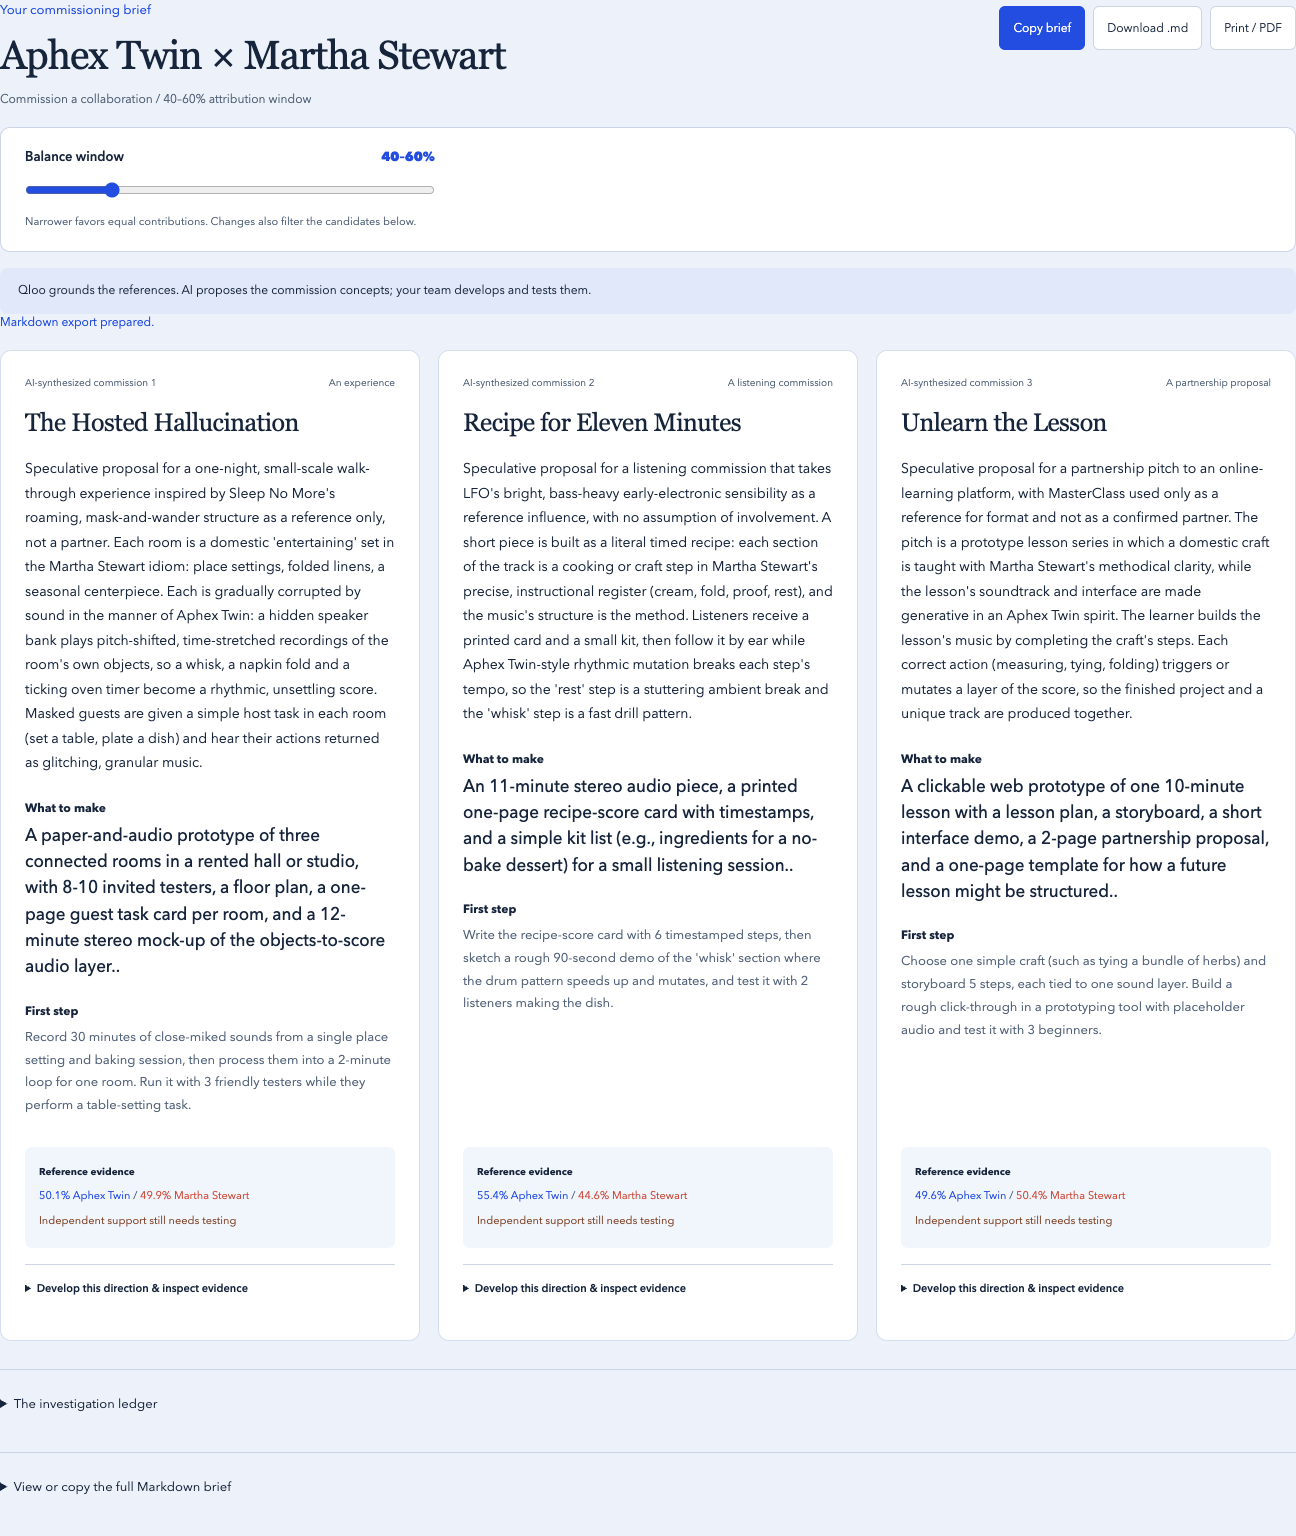
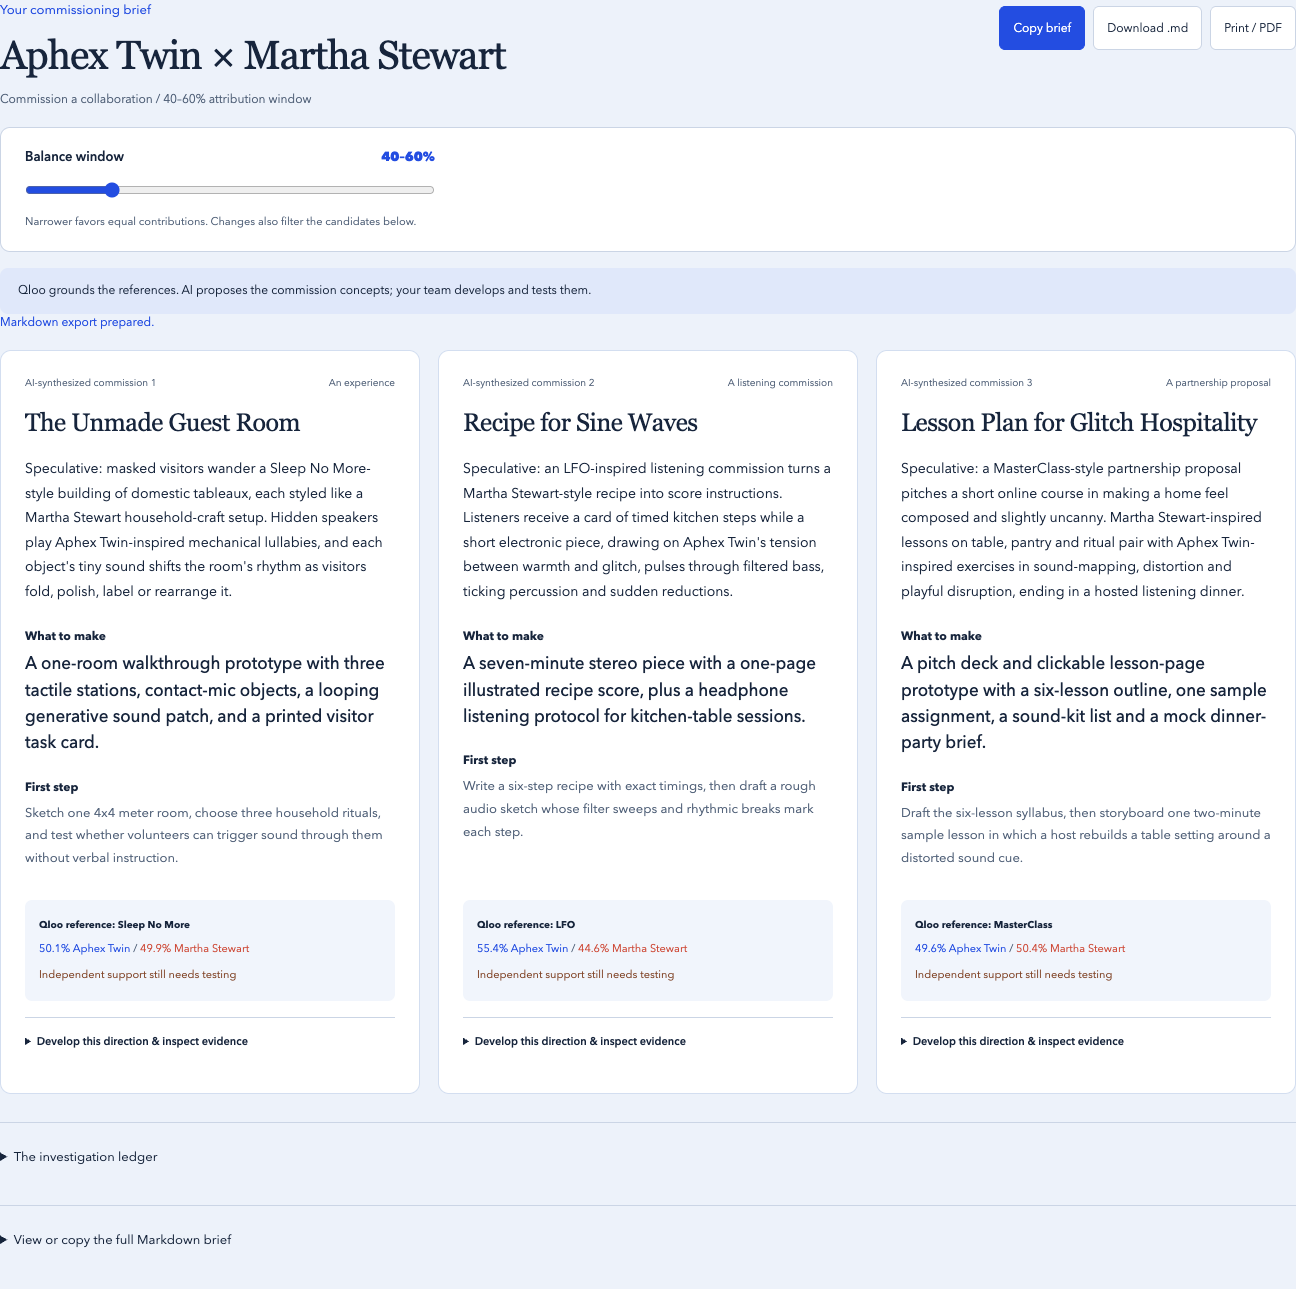
Resolve Gateway OIDC from request context and verify production synthesis

diff --git a/docs/dialectic-demo-brief.md b/docs/dialectic-demo-brief.md
@@ -7,7 +7,7 @@ An evidence-led commissioning draft. Proposed directions require human developme
 
 Concept synthesis: AI-generated via anthropic/claude-sonnet-5.5. Qloo grounds the references; AI proposes the creative concepts.
 
-## 1. The Hosted Hallucination
+## 1. The Unmade Guest Room
 
 ### Qloo observation
 Reference: Sleep No More (place; 0D482FC5-C668-4D49-81FB-B341B0A64684).
@@ -17,17 +17,17 @@ Evidence: 675866e173d12eb7c28f349b81d0c2e720a0a1afcb5823db7af9750fab0abfdb.
 
 ### Proposed direction
 Source: AI-synthesized commission concept.
-Speculative proposal for a one-night, small-scale walk-through experience inspired by Sleep No More's roaming, mask-and-wander structure as a reference only, not a partner. Each room is a domestic 'entertaining' set in the Martha Stewart idiom: place settings, folded linens, a seasonal centerpiece. Each is gradually corrupted by sound in the manner of Aphex Twin: a hidden speaker bank plays pitch-shifted, time-stretched recordings of the room's own objects, so a whisk, a napkin fold and a ticking oven timer become a rhythmic, unsettling score. Masked guests are given a simple host task in each room (set a table, plate a dish) and hear their actions returned as glitching, granular music.
+Speculative: masked visitors wander a Sleep No More-style building of domestic tableaux, each styled like a Martha Stewart household-craft setup. Hidden speakers play Aphex Twin-inspired mechanical lullabies, and each object's tiny sound shifts the room's rhythm as visitors fold, polish, label or rearrange it.
 
-Deliverable: A paper-and-audio prototype of three connected rooms in a rented hall or studio, with 8-10 invited testers, a floor plan, a one-page guest task card per room, and a 12-minute stereo mock-up of the objects-to-score audio layer..
-Next step: Record 30 minutes of close-miked sounds from a single place setting and baking session, then process them into a 2-minute loop for one room. Run it with 3 friendly testers while they perform a table-setting task.
-Rejection criterion: In testing, fewer than 6 of 8 testers can complete a room's domestic task and then identify, afterward, at least one of their own actions in the score, or testers describe the rooms as generic spooky theater rather than a domestic setting being altered by sound.
-- Aphex Twin seed: every sound in the score must be derived from recordings of the room's own domestic objects and processed (stretched, granulated, detuned). No external synth pads or stock samples.
-- Martha Stewart seed: every room must contain a fully executable, instruction-card-style domestic task (fold, plate, arrange) with a clear correct result, and the guest's finished work must remain visible after the sound distorts.
+Deliverable: A one-room walkthrough prototype with three tactile stations, contact-mic objects, a looping generative sound patch, and a printed visitor task card.
+Next step: Sketch one 4x4 meter room, choose three household rituals, and test whether volunteers can trigger sound through them without verbal instruction.
+Rejection criterion: In testing, participants cannot connect their physical actions to sound changes, or they treat the room as decor rather than a performance mechanism.
+- Aphex Twin seed: every sound must be built from warped domestic noise, such as clinking, folding or ticking, and later rhythmically destabilized.
+- Martha Stewart seed: every station needs a precise, teachable craft procedure with visible tools, measurements and a polished finished object.
 
 AI-generated creative interpretation. Qloo supports reference selection; it does not validate this concept, demand, participation or rights.
 
-## 2. Recipe for Eleven Minutes
+## 2. Recipe for Sine Waves
 
 ### Qloo observation
 Reference: LFO (artist; 9FDB8A60-ABAA-497F-BF66-8A0138184170).
@@ -37,17 +37,17 @@ Evidence: e559e4a5487d61c145b7dc3a6e209e6e2730ae8577aa6adad94a40e7bff0c554.
 
 ### Proposed direction
 Source: AI-synthesized commission concept.
-Speculative proposal for a listening commission that takes LFO's bright, bass-heavy early-electronic sensibility as a reference influence, with no assumption of involvement. A short piece is built as a literal timed recipe: each section of the track is a cooking or craft step in Martha Stewart's precise, instructional register (cream, fold, proof, rest), and the music's structure is the method. Listeners receive a printed card and a small kit, then follow it by ear while Aphex Twin-style rhythmic mutation breaks each step's tempo, so the 'rest' step is a stuttering ambient break and the 'whisk' step is a fast drill pattern.
+Speculative: an LFO-inspired listening commission turns a Martha Stewart-style recipe into score instructions. Listeners receive a card of timed kitchen steps while a short electronic piece, drawing on Aphex Twin's tension between warmth and glitch, pulses through filtered bass, ticking percussion and sudden reductions.
 
-Deliverable: An 11-minute stereo audio piece, a printed one-page recipe-score card with timestamps, and a simple kit list (e.g., ingredients for a no-bake dessert) for a small listening session..
-Next step: Write the recipe-score card with 6 timestamped steps, then sketch a rough 90-second demo of the 'whisk' section where the drum pattern speeds up and mutates, and test it with 2 listeners making the dish.
-Rejection criterion: Testers following the card with the audio cannot finish the dish within 11 minutes plus 4 minutes, or in a blind listen the audio without the card is described as just an electronic track with no sense of stepwise instruction.
-- Aphex Twin seed: the rhythm of each step must mutate at least twice within its section (shifting time signature, subdividing, or stuttering) while maintaining a recognizable pulse that returns at the section's end.
-- Martha Stewart seed: the card must be a usable, tested recipe in clear imperative language with exact quantities and times, and the final dish must be edible and replicable without the audio.
+Deliverable: A seven-minute stereo piece with a one-page illustrated recipe score, plus a headphone listening protocol for kitchen-table sessions.
+Next step: Write a six-step recipe with exact timings, then draft a rough audio sketch whose filter sweeps and rhythmic breaks mark each step.
+Rejection criterion: Listeners can follow the piece equally well without the recipe card, or the recipe reads as a gimmick instead of shaping the structure of the music.
+- Aphex Twin seed: include at least two deliberate rhythmic breakdowns that sound unstable, but resolve into a clear melodic motif.
+- Martha Stewart seed: the score card must be exact and beautiful, with named ingredients, timings, equipment and a final plating image.
 
 AI-generated creative interpretation. Qloo supports reference selection; it does not validate this concept, demand, participation or rights.
 
-## 3. Unlearn the Lesson
+## 3. Lesson Plan for Glitch Hospitality
 
 ### Qloo observation
 Reference: MasterClass (brand; 64DE0A20-BE82-481A-A875-9AEAA941DEB1).
@@ -57,13 +57,13 @@ Evidence: ae9c1e93b5b4b719bb2baf4acb4f6564f58327c282141fc6a9bcbf70b0fb6167.
 
 ### Proposed direction
 Source: AI-synthesized commission concept.
-Speculative proposal for a partnership pitch to an online-learning platform, with MasterClass used only as a reference for format and not as a confirmed partner. The pitch is a prototype lesson series in which a domestic craft is taught with Martha Stewart's methodical clarity, while the lesson's soundtrack and interface are made generative in an Aphex Twin spirit. The learner builds the lesson's music by completing the craft's steps. Each correct action (measuring, tying, folding) triggers or mutates a layer of the score, so the finished project and a unique track are produced together.
+Speculative: a MasterClass-style partnership proposal pitches a short online course in making a home feel composed and slightly uncanny. Martha Stewart-inspired lessons on table, pantry and ritual pair with Aphex Twin-inspired exercises in sound-mapping, distortion and playful disruption, ending in a hosted listening dinner.
 
-Deliverable: A clickable web prototype of one 10-minute lesson with a lesson plan, a storyboard, a short interface demo, a 2-page partnership proposal, and a one-page template for how a future lesson might be structured..
-Next step: Choose one simple craft (such as tying a bundle of herbs) and storyboard 5 steps, each tied to one sound layer. Build a rough click-through in a prototyping tool with placeholder audio and test it with 3 beginners.
-Rejection criterion: Beginners in a 3-person test finish the craft less successfully with the interactive audio than with a silent text version, or cannot tell their two runs apart by ear.
-- Aphex Twin seed: the soundtrack must be generated by learner actions, with each step adding or altering a layer. The same lesson run twice should yield audibly different tracks.
-- Martha Stewart seed: the lesson must teach one complete project from materials list to finished object, with instructions precise enough that a beginner can reproduce it with no music playing.
+Deliverable: A pitch deck and clickable lesson-page prototype with a six-lesson outline, one sample assignment, a sound-kit list and a mock dinner-party brief.
+Next step: Draft the six-lesson syllabus, then storyboard one two-minute sample lesson in which a host rebuilds a table setting around a distorted sound cue.
+Rejection criterion: The syllabus can be swapped for a generic cooking, design or music course without losing its distinctive assignments, or sound exercises do not change the hosting outputs.
+- Aphex Twin seed: each lesson must include one sound exercise using found audio, pitch-shifting, or rhythm interruption, not just background music.
+- Martha Stewart seed: each lesson must produce a practical hosting artifact, such as a place card, menu, centerpiece or timed prep schedule.
 
 AI-generated creative interpretation. Qloo supports reference selection; it does not validate this concept, demand, participation or rights.
 
@@ -84,4 +84,4 @@ AI-generated creative interpretation. Qloo supports reference selection; it does
 - Creative proposals are AI-generated interpretations, not Qloo findings or validated strategies.
 - References do not imply participation, endorsement, availability, or licensing rights.
 
-Generated: 2026-10-31T03:26:43.577Z
+Generated: 2026-11-01T08:33:13.038Z
